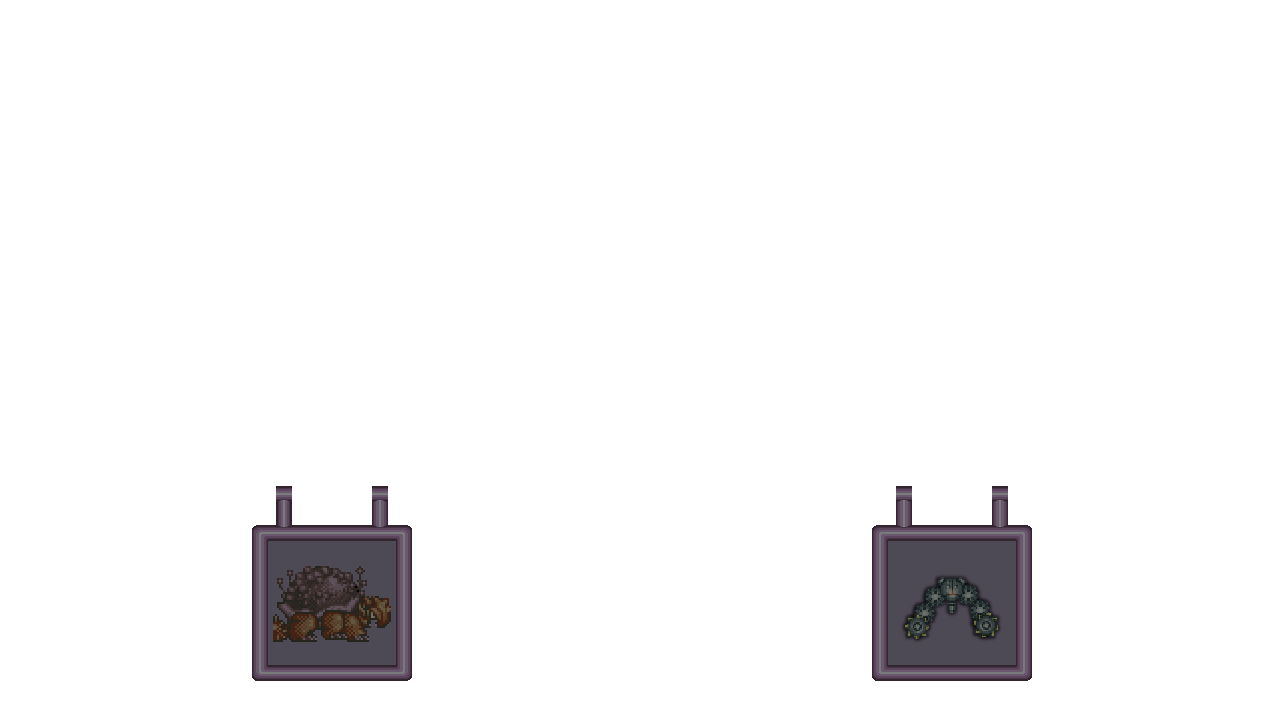
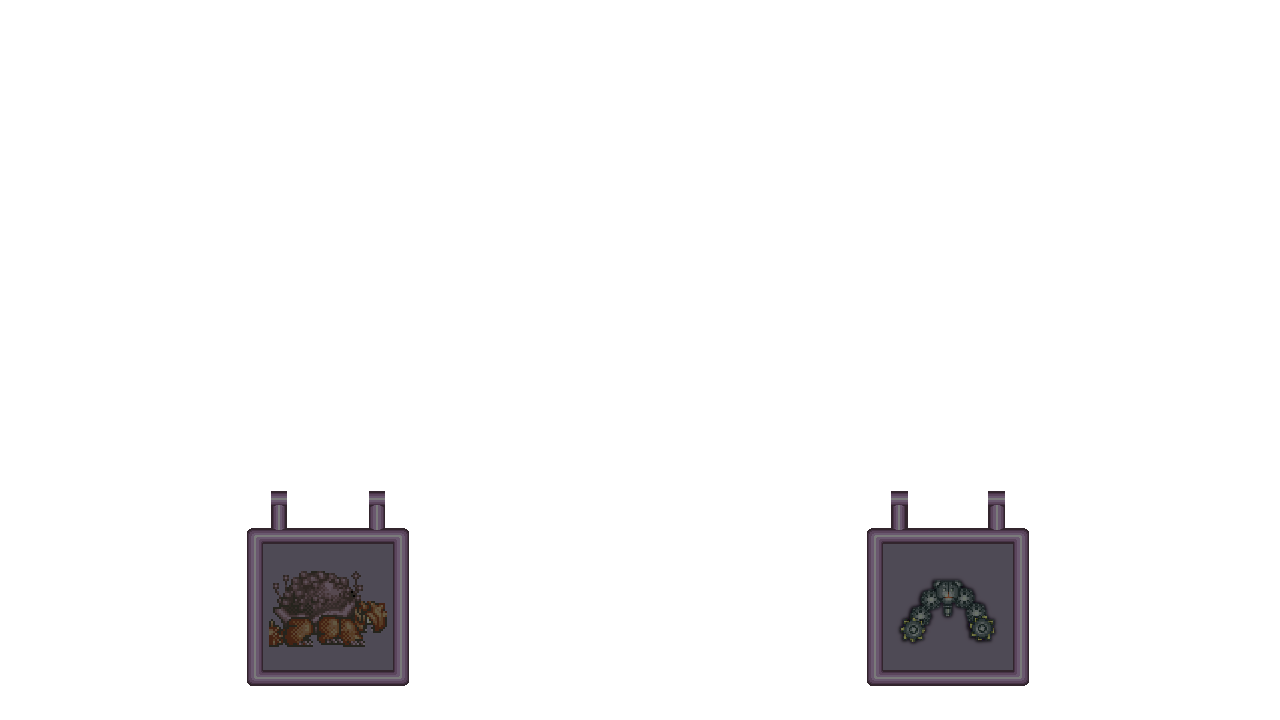
Make themes for TOURIAN and MARIDIA equal in terms of layout

Changed region(s): [[0.1875, 0.6722, 0.3438, 0.9778], [0.6562, 0.6722, 0.8125, 0.9778]]

diff --git a/src/saga/PlayersSaga.ts b/src/saga/PlayersSaga.ts
@@ -2,22 +2,22 @@ import { CanvasRenderingContext2D, createCanvas } from 'canvas';
 import { put, select, throttle } from 'redux-saga/effects';
 import { RootState } from '../redux/state/RootState';
 import { PlayersState } from '../redux/state/PlayersState';
-import { Color } from '@mui/material';
-import internal from 'stream';
 
 const trimEqualsRegExp = new RegExp("=*$");
 
 function* drawPlayers(names: PlayersState) {
     const canvas = createCanvas(1280, 720);
     const context: CanvasRenderingContext2D = canvas.getContext('2d')
-    const { player1, player2 } = names
-
-    //Draw Names
     context.textAlign = 'center'
     context.font = '28px sans-serif'
     context.fillStyle = '#FDF3FB';
-    yield outlineText(context, player1, 190, 69, 300);
-    yield outlineText(context, player2, 925, 69, 300);
+    context.lineWidth = 3;
+    context.strokeStyle = 'black'
+
+    //Draw Names
+    const { player1, player2 } = names
+    yield outlineText(context, player1, 186, 73, 300);
+    yield outlineText(context, player2, 922, 73, 300);
 
     // // creating an image can end the data URL with trailing equal signs.  these cause
     // // issues when using redrawing later, so remove them before persisting to redux
@@ -28,17 +28,7 @@ function* drawPlayers(names: PlayersState) {
 }
 
 export function* outlineText(context: CanvasRenderingContext2D, text: string, x: number, y: number, size: number) {
-    const oldFillStyle = context.fillStyle;
-    context.fillStyle = 'black';
-    context.fillText(text, x-1, y-1, size);
-    context.fillText(text, x-1, y, size);
-    context.fillText(text, x-1, y+1, size);
-    context.fillText(text, x,   y+1, size);
-    context.fillText(text, x+1, y+1, size);
-    context.fillText(text, x+1, y, size);
-    context.fillText(text, x+1, y-1, size);
-    context.fillText(text, x,   y-1, size);
-    context.fillStyle = oldFillStyle;
+    context.strokeText(text, x, y, size);
     context.fillText(text, x, y, size);
 }
 

diff --git a/src/saga/SettingsSaga.ts b/src/saga/SettingsSaga.ts
@@ -13,14 +13,10 @@ function* drawSettings(settings: SettingsState) {
     const { theme, mode, area, difficulty, start, morph, escape, bosses } = settings
 
     //Draw Settings
-    // context.textAlign = 'center'
-    // context.font = 'bold 20px sans-serif'
-    // context.fillStyle = '#FDF3FB';
-    // context.fillText(`SETTINGS`, 644, 180, 220);
-
-    context.textAlign = 'left'
     context.font = '16px sans-serif'
     context.fillStyle = '#FDF3FB';
+    context.lineWidth = 3;
+    context.strokeStyle = 'black'
 
     const themeValue = themeOptions[theme-1]
     const modeValue = modeOptions[mode - 1]
@@ -41,7 +37,7 @@ function* drawSettings(settings: SettingsState) {
       `ESCAPE - ${escapeValue}`
     ]
 
-    //Add a space so you don't write one of the settings over the background pipe
+    //Add a space so you don't write over the background on the TOURIAN theme
     if  (themeValue === 'TOURIAN') {
         settingsText.splice(2, 0, '');
     }
